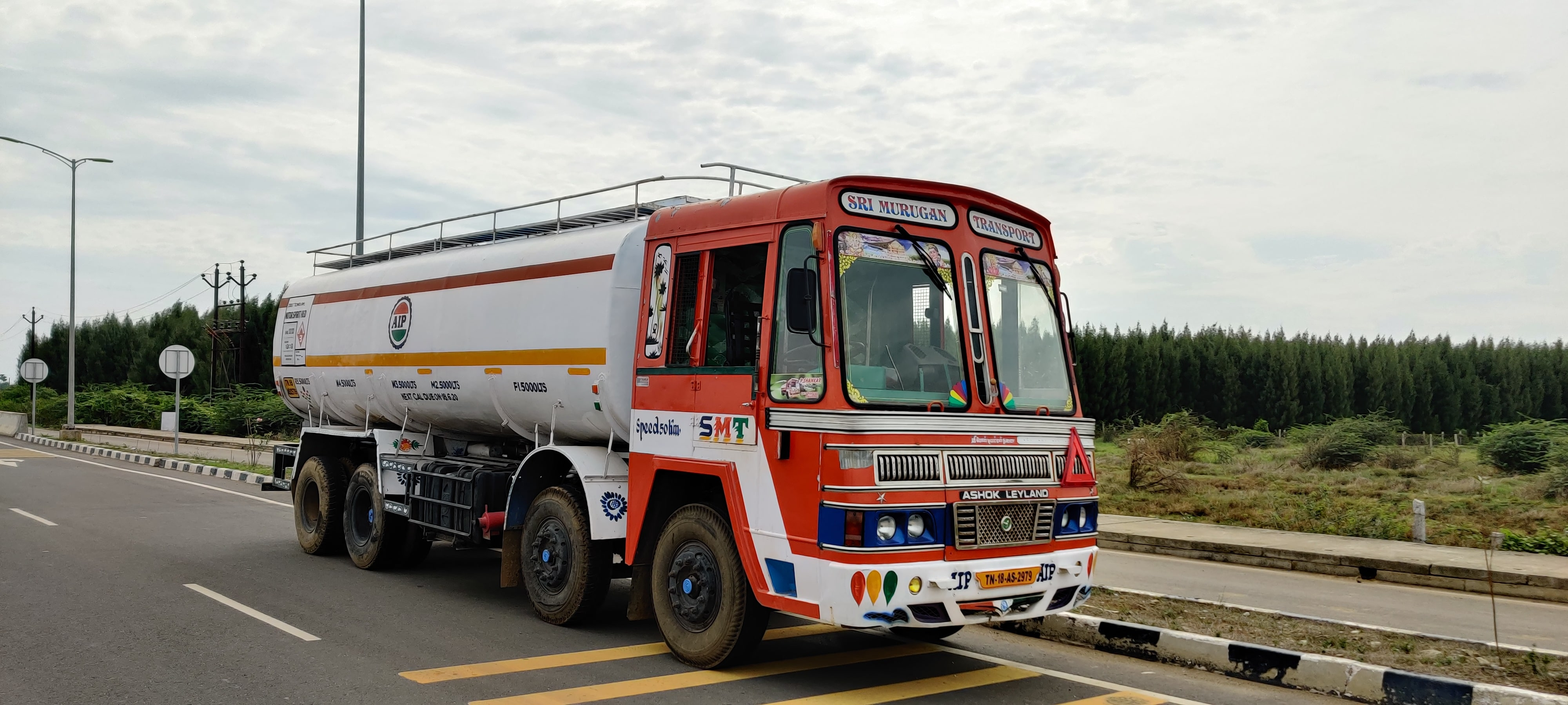
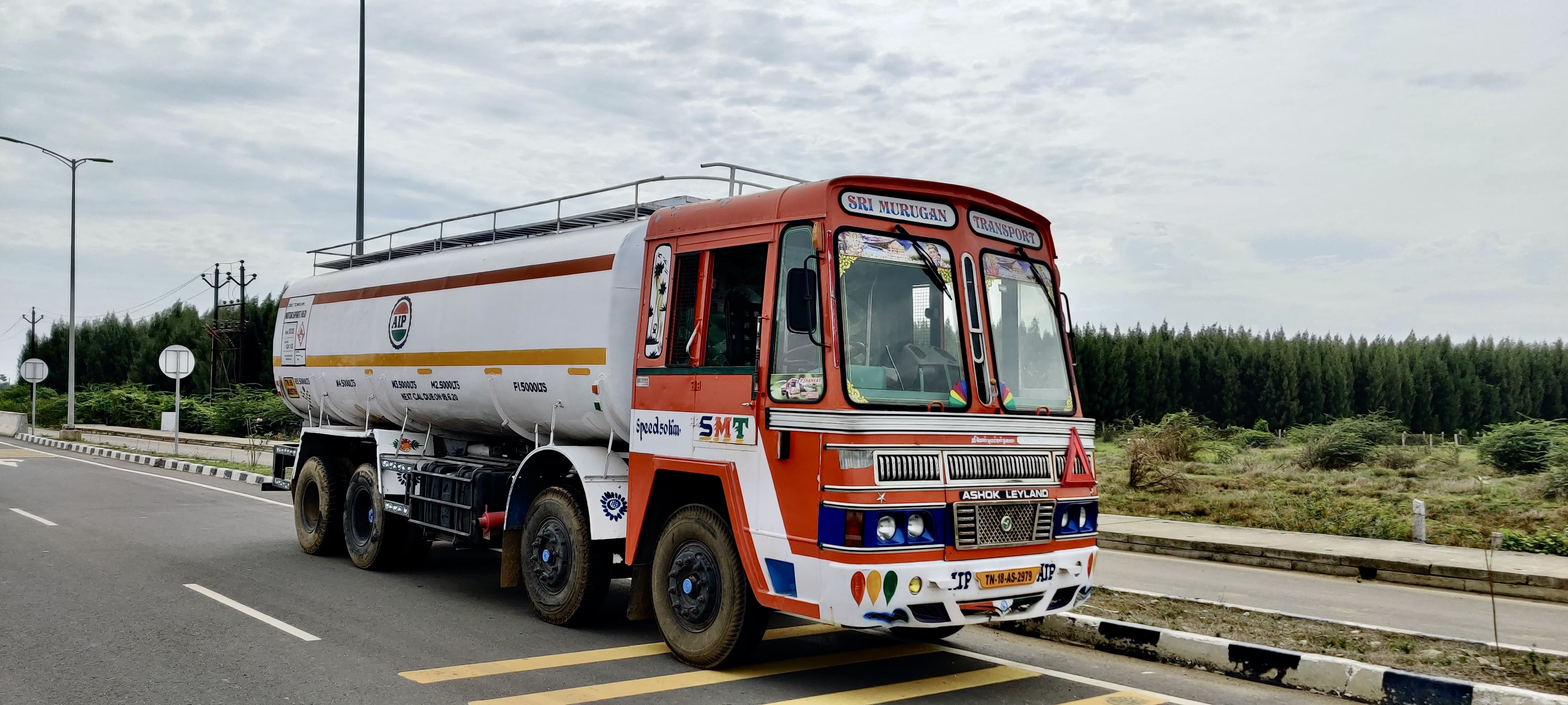
images optimise

diff --git a/index.html b/index.html
@@ -192,7 +192,7 @@
                         onclick="enlarge(this);"></div>
                 <div class="col span-1-of-8"><img src="resources/img/2-4.jpg" alt="Petroleum Products Transportation Trucks SMT Group"
                         onclick="enlarge(this);"></div>
-                <div class="col span-1-of-8"><img src="resources/img/6-3.jpg" alt="Petroleum Products Transportation Trucks SMT Group"
+                <div class="col span-1-of-8"><img src="resources/img/6-4.jpg" alt="Petroleum Products Transportation Trucks SMT Group"
                         onclick="enlarge(this);"></div>
                 <div class="col span-1-of-8"><img src="resources/img/8-3.jpg" alt="Petroleum Products Transportation Trucks SMT Group"
                         onclick="enlarge(this);"></div>

diff --git a/resources/css/style.css b/resources/css/style.css
@@ -553,7 +553,7 @@ ul.custom-bullet li::before {
 }
 
 .large-image img {
-    width: 90%;
+    width: 100%;
     height: auto;
     display: block;
     margin-left: auto;
